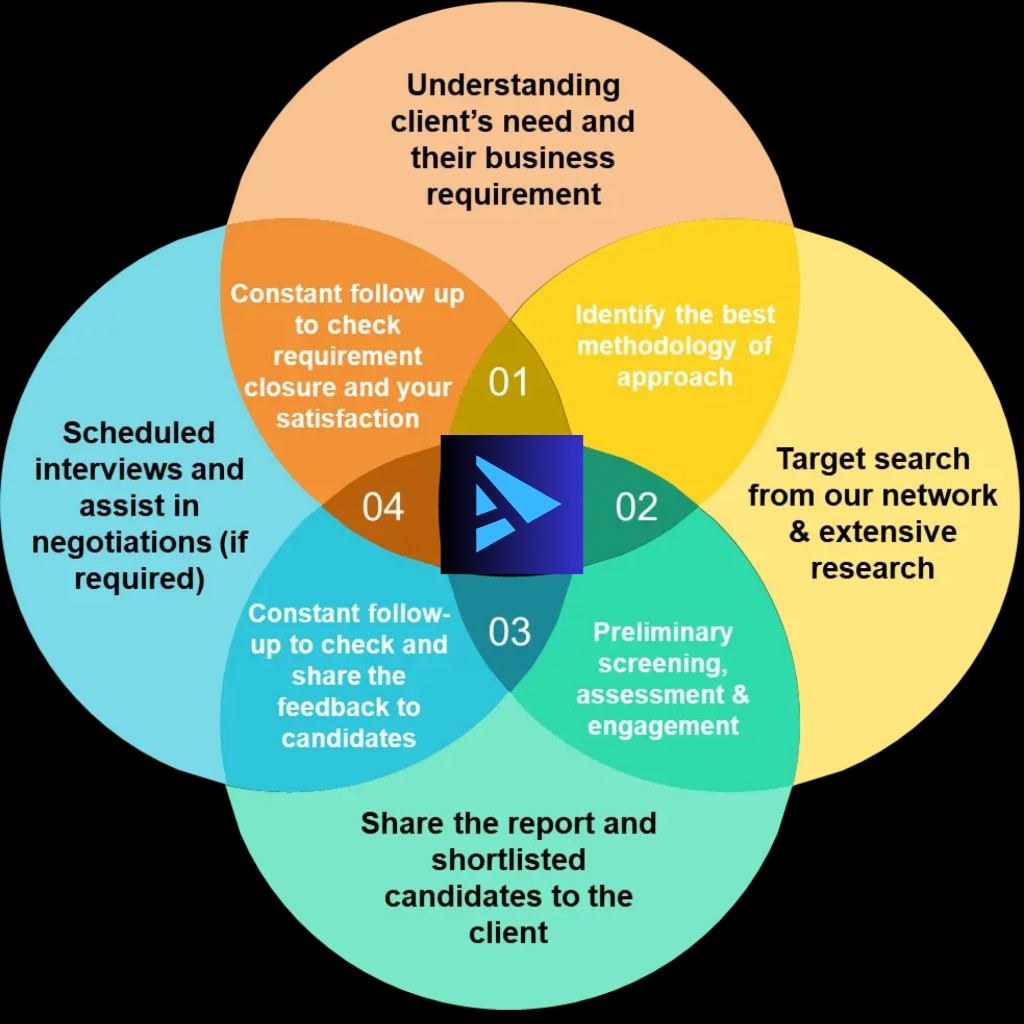
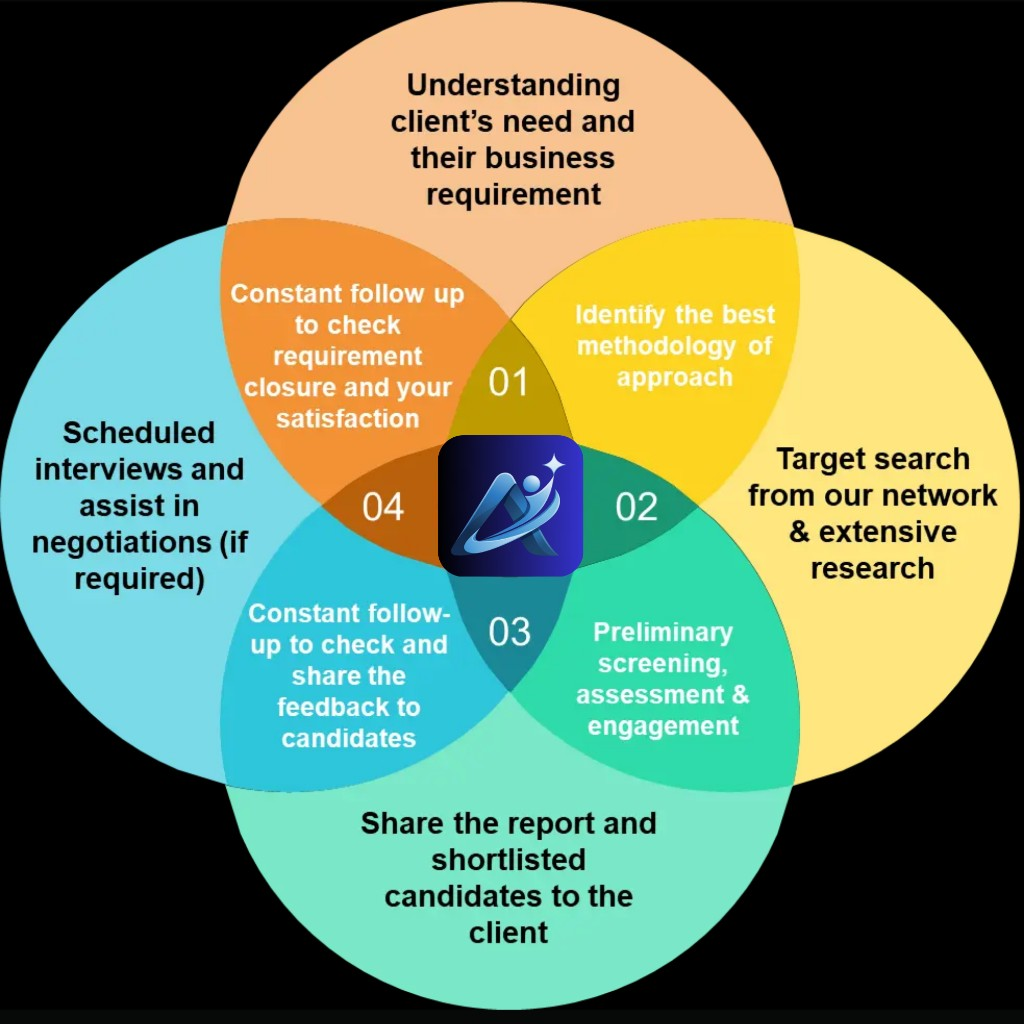
Replace the executive search process diagram with the new mark.

Changed region(s): [[0.4062, 0.4375, 0.5938, 0.5625], [0.5625, 0.4062, 0.5938, 0.4375]]

diff --git a/web/src/app/services/executive-search/page.tsx b/web/src/app/services/executive-search/page.tsx
@@ -71,7 +71,7 @@ export default function ExecutiveSearchPage() {
         <div className={styles.storyMedia}>
           <Image
             src="/media/executive-search-process.png"
-            alt="AIONEX executive search process with current logo: understand need, target search, share shortlist, interviews and closure"
+            alt="AIONEX executive search process: understand need, target search, screen and shortlist, interviews and follow-up"
             fill
             sizes="(max-width: 960px) 100vw, 46vw"
             className={styles.storyImage}
